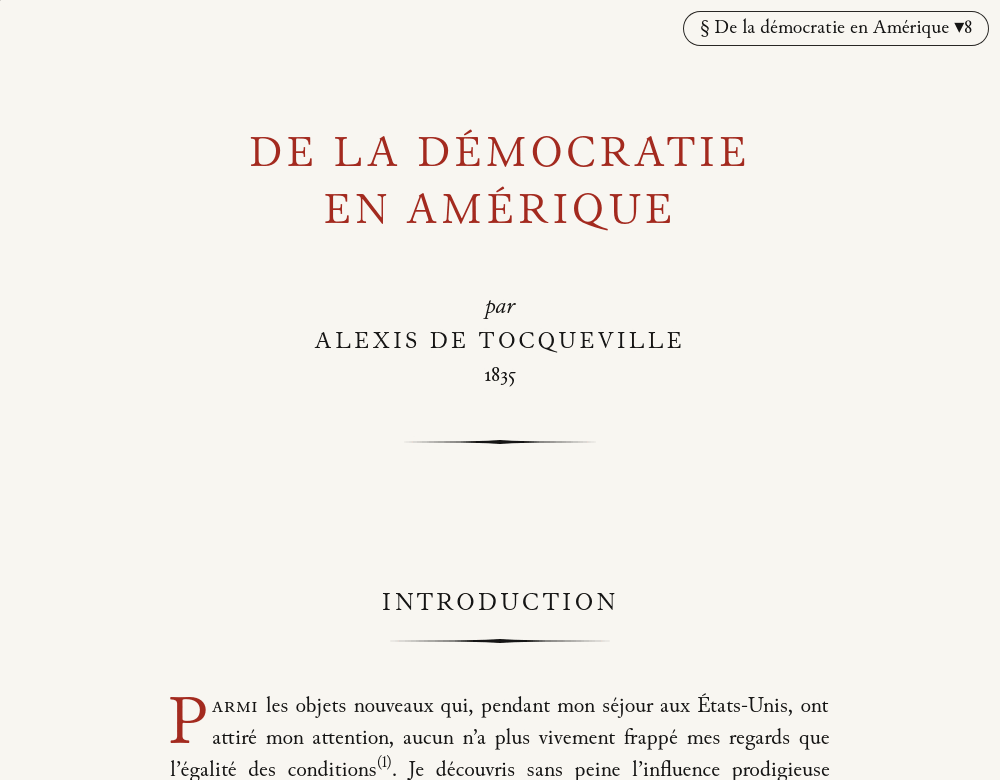
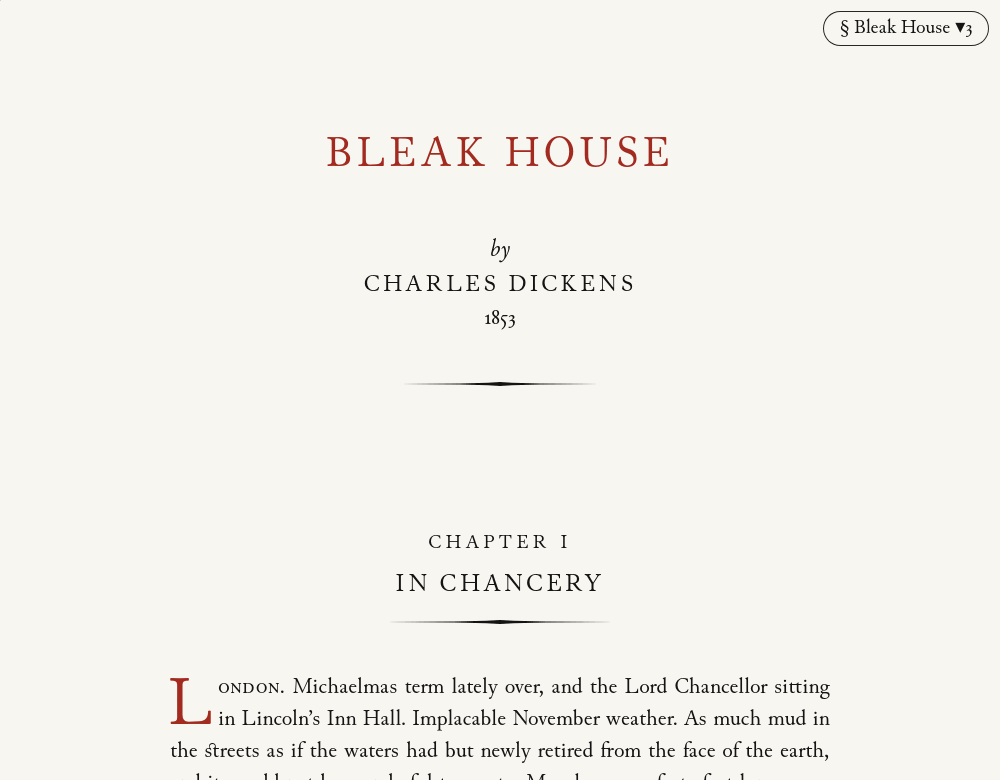
Show the English examples in the gallery
XVII keeps a second row for the Discours, as the owner asked to keep
it in the gallery.

diff --git a/examples/README.md b/examples/README.md
@@ -6,10 +6,10 @@ press `M-g s` and choose its skin. Each directory's `SOURCES.md` says where its 
 | Skin | Open | What it holds |
 |---|---|---|
 | Minitel | [`minitel/robida.org`](minitel/robida.org), [`minitel/wells.md`](minitel/wells.md) | Robida's telephonoscope, in French; Wells's Babble Machines, in English |
-| XIX | [`xix/francais.org`](xix/francais.org), [`xix/english.md`](xix/english.md) | Tocqueville, in French; an essay on setting type, in English |
-| XVIII | [`xviii/candide.org`](xviii/candide.org), [`xviii/johnson.md`](xviii/johnson.md) | Voltaire, in French; Johnson's Preface, in English |
-| XVII | [`xvii/descartes.org`](xvii/descartes.org), [`xvii/milton.md`](xvii/milton.md) | Descartes, in French; Milton, in English |
-| Briefing | [`briefing/turgot.org`](briefing/turgot.org), [`briefing/jefferson.md`](briefing/jefferson.md) | Turgot's letter of 1774, in French; Jefferson's instructions of 1803, in English |
+| XIX | [`xix/dickens.md`](xix/dickens.md), [`xix/francais.org`](xix/francais.org) | The opening of *Bleak House*, in English; Tocqueville, in French |
+| XVIII | [`xviii/johnson.md`](xviii/johnson.md), [`xviii/candide.org`](xviii/candide.org) | Johnson's Preface, in English; Voltaire, in French |
+| XVII | [`xvii/milton.md`](xvii/milton.md), [`xvii/descartes.org`](xvii/descartes.org) | Milton, in English; Descartes, in French |
+| Briefing | [`briefing/bagehot.org`](briefing/bagehot.org), [`briefing/jefferson.md`](briefing/jefferson.md) | A reserve policy from Bagehot's *Lombard Street* of 1873, in Org; Jefferson's instructions of 1803, in Markdown; both in English |
 | Écrivain | [`ecrivain/carnet.org`](ecrivain/carnet.org), [`ecrivain/notebook.md`](ecrivain/notebook.md) | A notebook written to try the skin, in French and in English |
 | Tianlu | [`tianlu/tinggui-xiaoji.org`](tianlu/tinggui-xiaoji.org), [`tianlu/bisheng-jiaoni-huozi.md`](tianlu/bisheng-jiaoni-huozi.md) | Two essays, in traditional and in simplified characters, which no reader of Chinese has checked |
 
